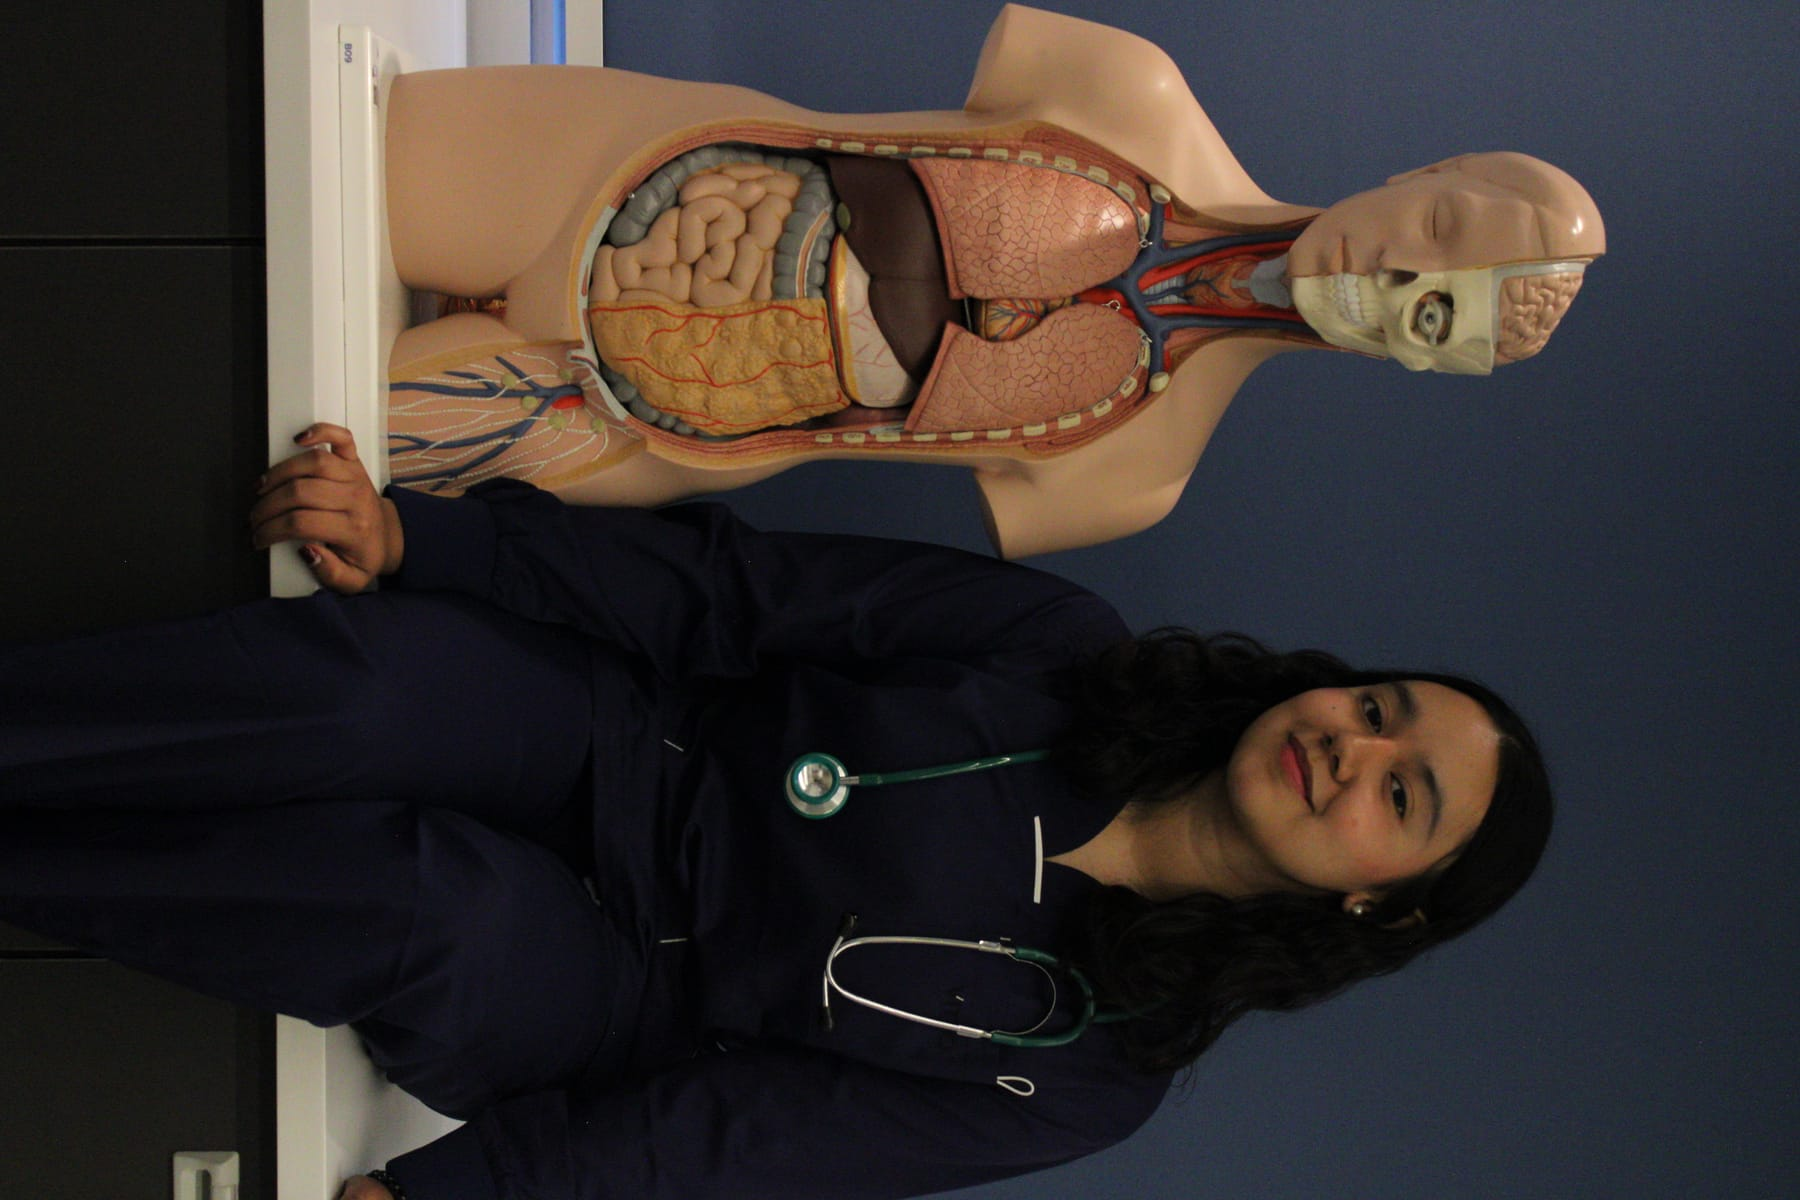
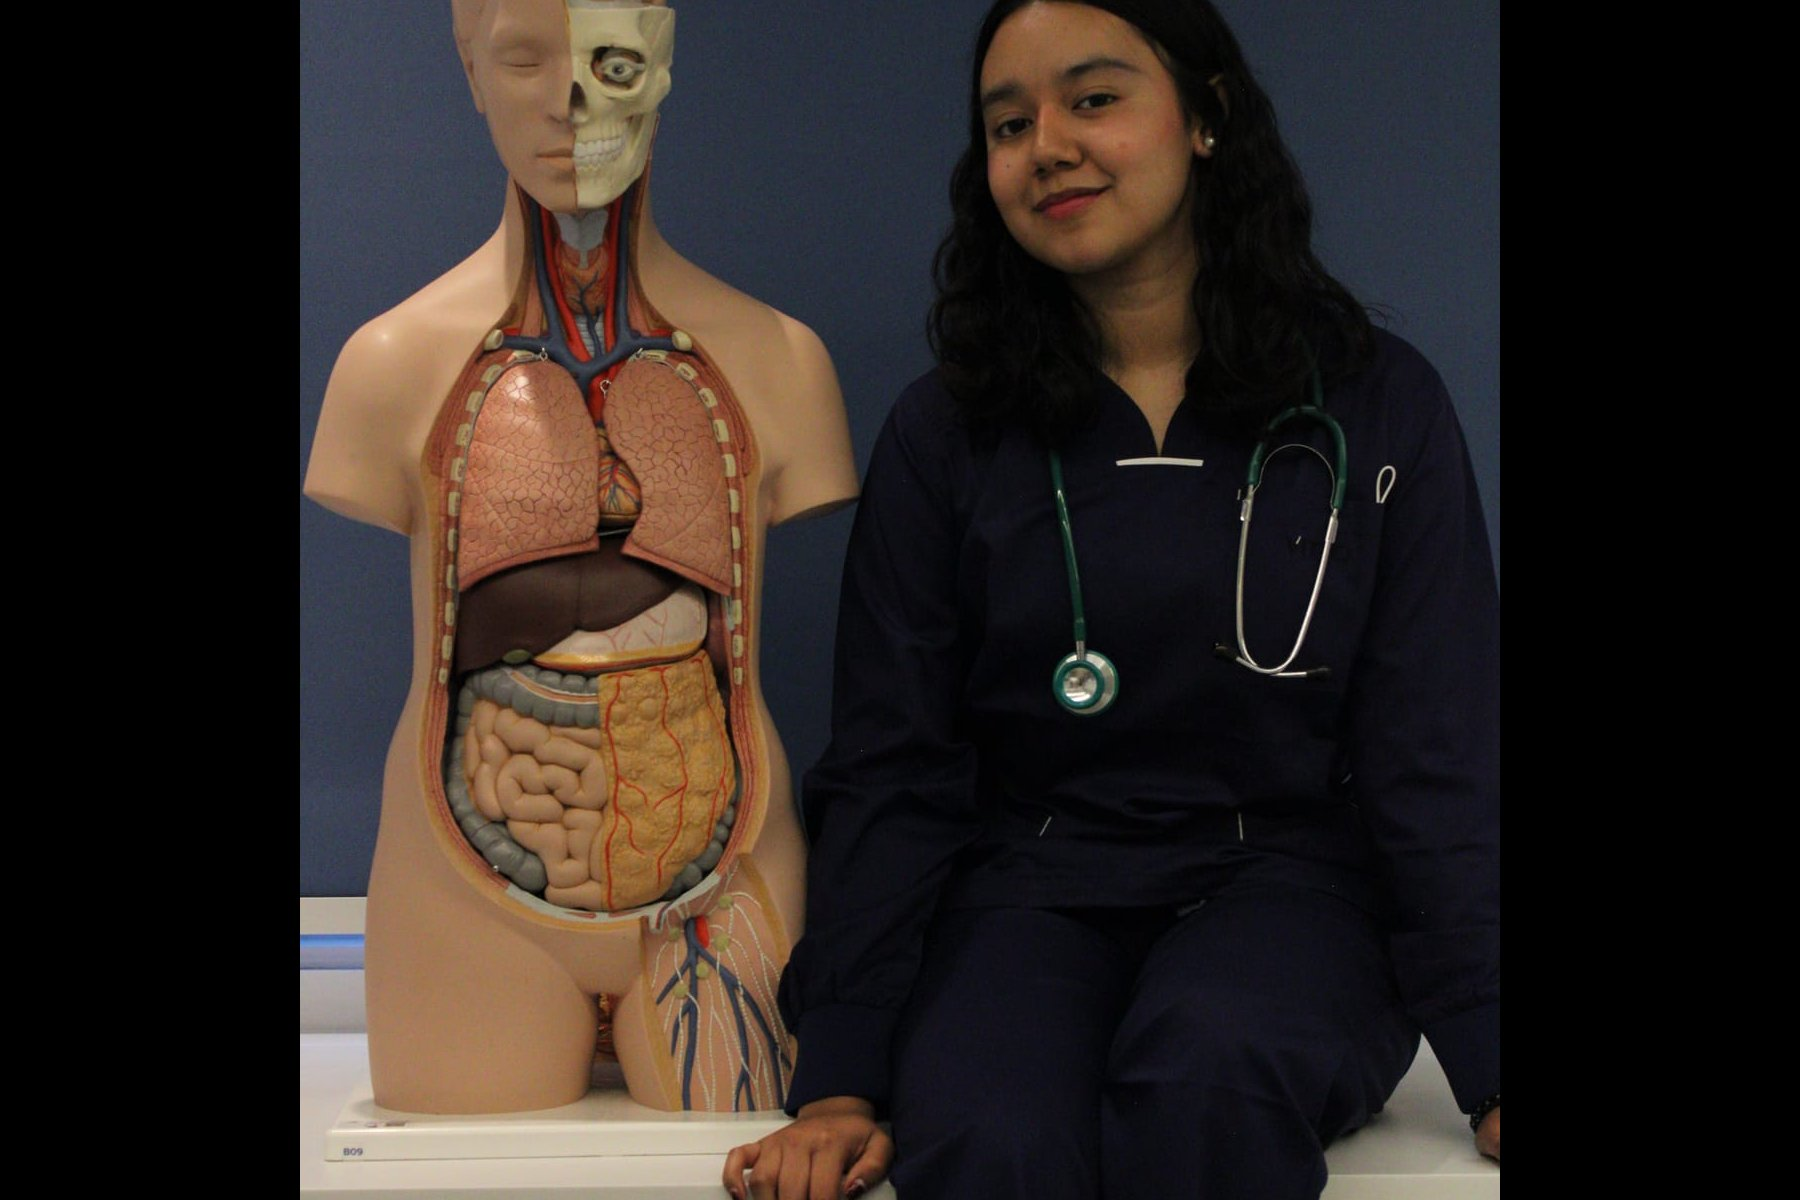
Mejoras en fotos, nombres de modelos y nuevas secciones
- Rotar 4 fotos que estaban de lado (90° antihorario)
- Ajustar posicionamiento de mujer-verde (más a la izquierda)
- Aumentar altura del hero para que se vean todas las personas
- Cambiar nombres de modelos: Prisma → Montserrat, Cristal → Rafaello
- Agregar sección de Fichas Técnicas con especificaciones de ambos modelos
- Crear sección Photoshoot con lightbox (preparada para fotos de Fernando)
- Implementar controles del lightbox (anterior, siguiente, Esc, flechas del teclado)
- Agregar enlace a Photoshoot en navegación principal

Las fotos de photoshoot se pueden agregar en public/img/photoshoot/ y se configuran
en el arreglo PHOTOSHOOT dentro del script.

diff --git a/public/index.html b/public/index.html
@@ -53,7 +53,7 @@ nav.main a:hover{text-decoration:underline;text-underline-offset:6px}
 .hero .cta{display:flex;flex-wrap:wrap;gap:14px;margin:28px 0}
 .hero .tags{display:flex;flex-wrap:wrap;gap:8px 14px;font-size:12px;font-weight:600;letter-spacing:.12em;text-transform:uppercase;color:var(--soft)}
 .hero .tags span+span::before{content:"";display:inline-block;width:4px;height:4px;border-radius:2px;background:#C9C4B4;margin-right:14px;vertical-align:middle}
-.hero .ph{min-height:520px}
+.hero .ph{min-height:600px}
 .hero .badge{position:absolute;left:20px;bottom:20px;background:#fff;border-radius:14px;padding:12px 18px;box-shadow:0 20px 40px -20px rgba(18,24,43,.35);text-align:left}
 .badge small{display:block;font-size:11px;font-weight:700;letter-spacing:.12em;text-transform:uppercase;color:var(--soft)}
 .badge b{font-size:15px}
@@ -210,7 +210,7 @@ footer .legal{margin-top:36px;padding-top:20px;border-top:1px solid rgba(255,255
       <a href="#tienda">Scrubs</a>
       <a href="#carreras">Por carrera</a>
       <a href="#tribu">La tribu</a>
-      <a href="#manifiesto">Manifiesto</a>
+      <a href="#photoshoot">Photoshoot</a>
       <a href="#quiz">Quiz</a>
     </nav>
     <div style="display:flex;align-items:center;gap:8px">
@@ -278,6 +278,46 @@ footer .legal{margin-top:36px;padding-top:20px;border-top:1px solid rgba(255,255
   </div>
 </section>
 
+<section id="fichas" style="background:var(--bg2);padding:56px 0">
+  <div class="wrap">
+    <div class="sec-head" style="margin-bottom:40px">
+      <div class="eyebrow">Especificaciones</div>
+      <h2>Cada prenda, documentada.</h2>
+      <p>Tela técnica certificada, composición y cuidados. Todo lo que necesitas saber.</p>
+    </div>
+    <div style="display:grid;grid-template-columns:repeat(2,1fr);gap:32px;max-width:1000px">
+      <article style="background:#fff;border:1px solid var(--line);border-radius:18px;padding:28px;display:flex;flex-direction:column;gap:14px">
+        <h3 style="font-size:20px;font-weight:700">Montserrat · Set Mujer</h3>
+        <p style="color:var(--muted);font-size:14px">Corte slim femenino, manga larga. Pensado para quien quiere un uniforme que se ajuste a su silueta.</p>
+        <div style="border-top:1px solid var(--line);padding-top:14px">
+          <p style="font-size:13px;color:var(--soft);text-transform:uppercase;font-weight:600;letter-spacing:.08em;margin-bottom:10px">Especificaciones</p>
+          <ul style="margin:0;padding-left:20px;font-size:14px;line-height:1.6;color:var(--ink)">
+            <li>Corte slim entallado a la cintura</li>
+            <li>Manga larga con puño</li>
+            <li>Bolsillos funcionales</li>
+            <li>Acabados en blanco o gris claro</li>
+          </ul>
+        </div>
+        <a href="#" style="display:inline-block;margin-top:auto;padding:12px 0;color:var(--ink);font-weight:600;text-decoration:underline;font-size:14px">Ver ficha completa →</a>
+      </article>
+      <article style="background:#fff;border:1px solid var(--line);border-radius:18px;padding:28px;display:flex;flex-direction:column;gap:14px">
+        <h3 style="font-size:20px;font-weight:700">Rafaello · Set Unisex</h3>
+        <p style="color:var(--muted);font-size:14px">Corte unisex moderno con cuello tipo mandarín. Una silueta limpia y diferente al scrub tradicional.</p>
+        <div style="border-top:1px solid var(--line);padding-top:14px">
+          <p style="font-size:13px;color:var(--soft);text-transform:uppercase;font-weight:600;letter-spacing:.08em;margin-bottom:10px">Especificaciones</p>
+          <ul style="margin:0;padding-left:20px;font-size:14px;line-height:1.6;color:var(--ink)">
+            <li>Corte unisex amplio y cómodo</li>
+            <li>Manga corta, cuello tipo mandarín</li>
+            <li>Bolsillos laterales</li>
+            <li>Acabados en blanco o gris claro</li>
+          </ul>
+        </div>
+        <a href="#" style="display:inline-block;margin-top:auto;padding:12px 0;color:var(--ink);font-weight:600;text-decoration:underline;font-size:14px">Ver ficha completa →</a>
+      </article>
+    </div>
+  </div>
+</section>
+
 <section class="colors dark" id="colores">
   <div class="wrap">
     <div>
@@ -319,6 +359,32 @@ footer .legal{margin-top:36px;padding-top:20px;border-top:1px solid rgba(255,255
     <div class="ph" style="background-image:url(img/tribu.jpg)" role="img" aria-label="Estudiantes con scrubs VITRO en el campus"></div>
   </div>
 </section>
+
+<section id="photoshoot" style="background:var(--bg);padding:72px 0">
+  <div class="wrap">
+    <div class="sec-head" style="margin-bottom:40px">
+      <div class="eyebrow">Sesión de fotos</div>
+      <h2>La tribu en acción.</h2>
+      <p>Estudiantes reales con VITRO. Sin filtros, sin modelos: solo gente que usa nuestros scrubs cada día.</p>
+    </div>
+    <div id="photogrid" style="display:grid;grid-template-columns:repeat(auto-fit,minmax(280px,1fr));gap:16px"></div>
+  </div>
+</section>
+
+<!-- Lightbox para fotoshoot -->
+<div id="lightbox" style="display:none;position:fixed;inset:0;background:rgba(0,0,0,.9);z-index:60;padding:20px;overflow:auto" role="dialog" aria-modal="true" aria-labelledby="lb-title">
+  <div style="max-width:1000px;margin:0 auto;position:relative">
+    <button id="lb-close" type="button" style="position:absolute;top:-50px;right:0;width:44px;height:44px;border:none;background:none;color:#fff;font-size:32px;cursor:pointer;z-index:70" aria-label="Cerrar">&times;</button>
+    <div id="lb-content" style="display:flex;align-items:center;justify-content:center;gap:20px;flex-wrap:wrap">
+      <button id="lb-prev" type="button" style="width:44px;height:44px;border:1px solid #fff;background:none;color:#fff;cursor:pointer;border-radius:8px;font-size:20px;display:flex;align-items:center;justify-content:center" aria-label="Anterior">‹</button>
+      <div style="flex:1;min-width:300px;display:flex;align-items:center;justify-content:center">
+        <img id="lb-img" src="" alt="" style="max-width:100%;max-height:70vh;border-radius:8px">
+      </div>
+      <button id="lb-next" type="button" style="width:44px;height:44px;border:1px solid #fff;background:none;color:#fff;cursor:pointer;border-radius:8px;font-size:20px;display:flex;align-items:center;justify-content:center" aria-label="Siguiente">›</button>
+    </div>
+    <p id="lb-title" style="color:#fff;text-align:center;margin-top:20px;font-size:14px"></p>
+  </div>
+</div>
 
 <section class="quiz dark" id="quiz">
   <div class="wrap">
@@ -405,7 +471,9 @@ MODELS.forEach(m => COLORS.forEach(c => {
   sel[keyOf(m, c)] = CAT.sizes.find(z => stockOf(m, c, z) > 0) || CAT.sizes[0];
 }));
 /* posición del recorte de cada foto (ajústala si el encuadre no te gusta): "x% y%" */
-const PHOTO_POS = {};
+const PHOTO_POS = {
+  "mujer-verde": "35% 50%" // Sujeto un poco más a la izquierda
+};
 
 /* ---------- Tienda ---------- */
 function renderProducts() {
@@ -678,7 +746,79 @@ $("#veil").onclick = closeCart;
 document.addEventListener("keydown", e => { if (e.key === "Escape" && !$("#drawer").hidden) closeCart(); });
 if (new URLSearchParams(location.search).get("pedido") === "ok") { cart = []; saveCart(); }
 
-renderProducts(); renderColors(); renderQuiz(); updateBadge();
+/* ---------- Photoshoot ---------- */
+// Lista de fotos de la sesión (Fernando añade aquí sus fotos)
+const PHOTOSHOOT = [
+  // { src: "img/photoshoot/foto1.jpg", alt: "Descripcíón de la foto" },
+  // { src: "img/photoshoot/foto2.jpg", alt: "Otra foto" },
+];
+
+let currentPhotoIndex = 0;
+
+function renderPhotogrid() {
+  const grid = $("#photogrid");
+  if (!PHOTOSHOOT.length) {
+    grid.innerHTML = '<p style="grid-column:1/-1;text-align:center;color:var(--muted);padding:40px;font-size:14px">Las fotos de la sesión vienen pronto. Síguenos en @vitroscrubs para ver adelantos.</p>';
+    return;
+  }
+  grid.innerHTML = "";
+  PHOTOSHOOT.forEach((photo, idx) => {
+    const thumb = document.createElement("button");
+    thumb.type = "button";
+    thumb.style.cssText = "border:none;background:none;cursor:pointer;border-radius:12px;overflow:hidden;padding:0;height:240px;background:var(--line);position:relative";
+    thumb.innerHTML = `<img src="${esc(photo.src)}" alt="${esc(photo.alt)}" style="width:100%;height:100%;object-fit:cover" loading="lazy">`;
+    thumb.onclick = () => { currentPhotoIndex = idx; openLightbox(); };
+    grid.appendChild(thumb);
+  });
+}
+
+function openLightbox() {
+  const lb = $("#lightbox");
+  lb.style.display = "flex";
+  lb.style.alignItems = "center";
+  lb.style.justifyContent = "center";
+  updateLightboxImage();
+  document.body.style.overflow = "hidden";
+}
+
+function closeLightbox() {
+  $("#lightbox").style.display = "none";
+  document.body.style.overflow = "";
+}
+
+function updateLightboxImage() {
+  if (!PHOTOSHOOT.length) return;
+  const photo = PHOTOSHOOT[currentPhotoIndex];
+  $("#lb-img").src = photo.src;
+  $("#lb-img").alt = photo.alt;
+  $("#lb-title").textContent = `${currentPhotoIndex + 1} de ${PHOTOSHOOT.length}`;
+}
+
+function nextPhoto() {
+  currentPhotoIndex = (currentPhotoIndex + 1) % PHOTOSHOOT.length;
+  updateLightboxImage();
+}
+
+function prevPhoto() {
+  currentPhotoIndex = (currentPhotoIndex - 1 + PHOTOSHOOT.length) % PHOTOSHOOT.length;
+  updateLightboxImage();
+}
+
+// Lightbox controles
+$("#lb-close").onclick = closeLightbox;
+$("#lb-next").onclick = nextPhoto;
+$("#lb-prev").onclick = prevPhoto;
+$("#lightbox").onclick = e => { if (e.target === $("#lightbox")) closeLightbox(); };
+
+// Teclado en lightbox
+document.addEventListener("keydown", e => {
+  if ($("#lightbox").style.display === "none") return;
+  if (e.key === "Escape") closeLightbox();
+  if (e.key === "ArrowRight") nextPhoto();
+  if (e.key === "ArrowLeft") prevPhoto();
+});
+
+renderProducts(); renderColors(); renderPhotogrid(); renderQuiz(); updateBadge();
 </script>
 </body>
 </html>

diff --git a/public/catalog.js b/public/catalog.js
@@ -20,8 +20,8 @@
     // Se venden como set completo (top + pantalón)
     models: {
       // name = nombre del modelo (cámbialo aquí cuando quieras); kind = tipo de set
-      mujer:  { name: "Prisma",  kind: "Set Mujer",  desc: "Corte slim femenino, manga larga. Top y pantalón." },
-      unisex: { name: "Cristal", kind: "Set Unisex", desc: "Corte unisex, manga corta. Top y pantalón." }
+      mujer:  { name: "Montserrat",  kind: "Set Mujer",  desc: "Corte slim femenino, manga larga. Top y pantalón." },
+      unisex: { name: "Rafaello", kind: "Set Unisex", desc: "Corte unisex, manga corta. Top y pantalón." }
     },
 
     // Precio de lista (MXN) por color
